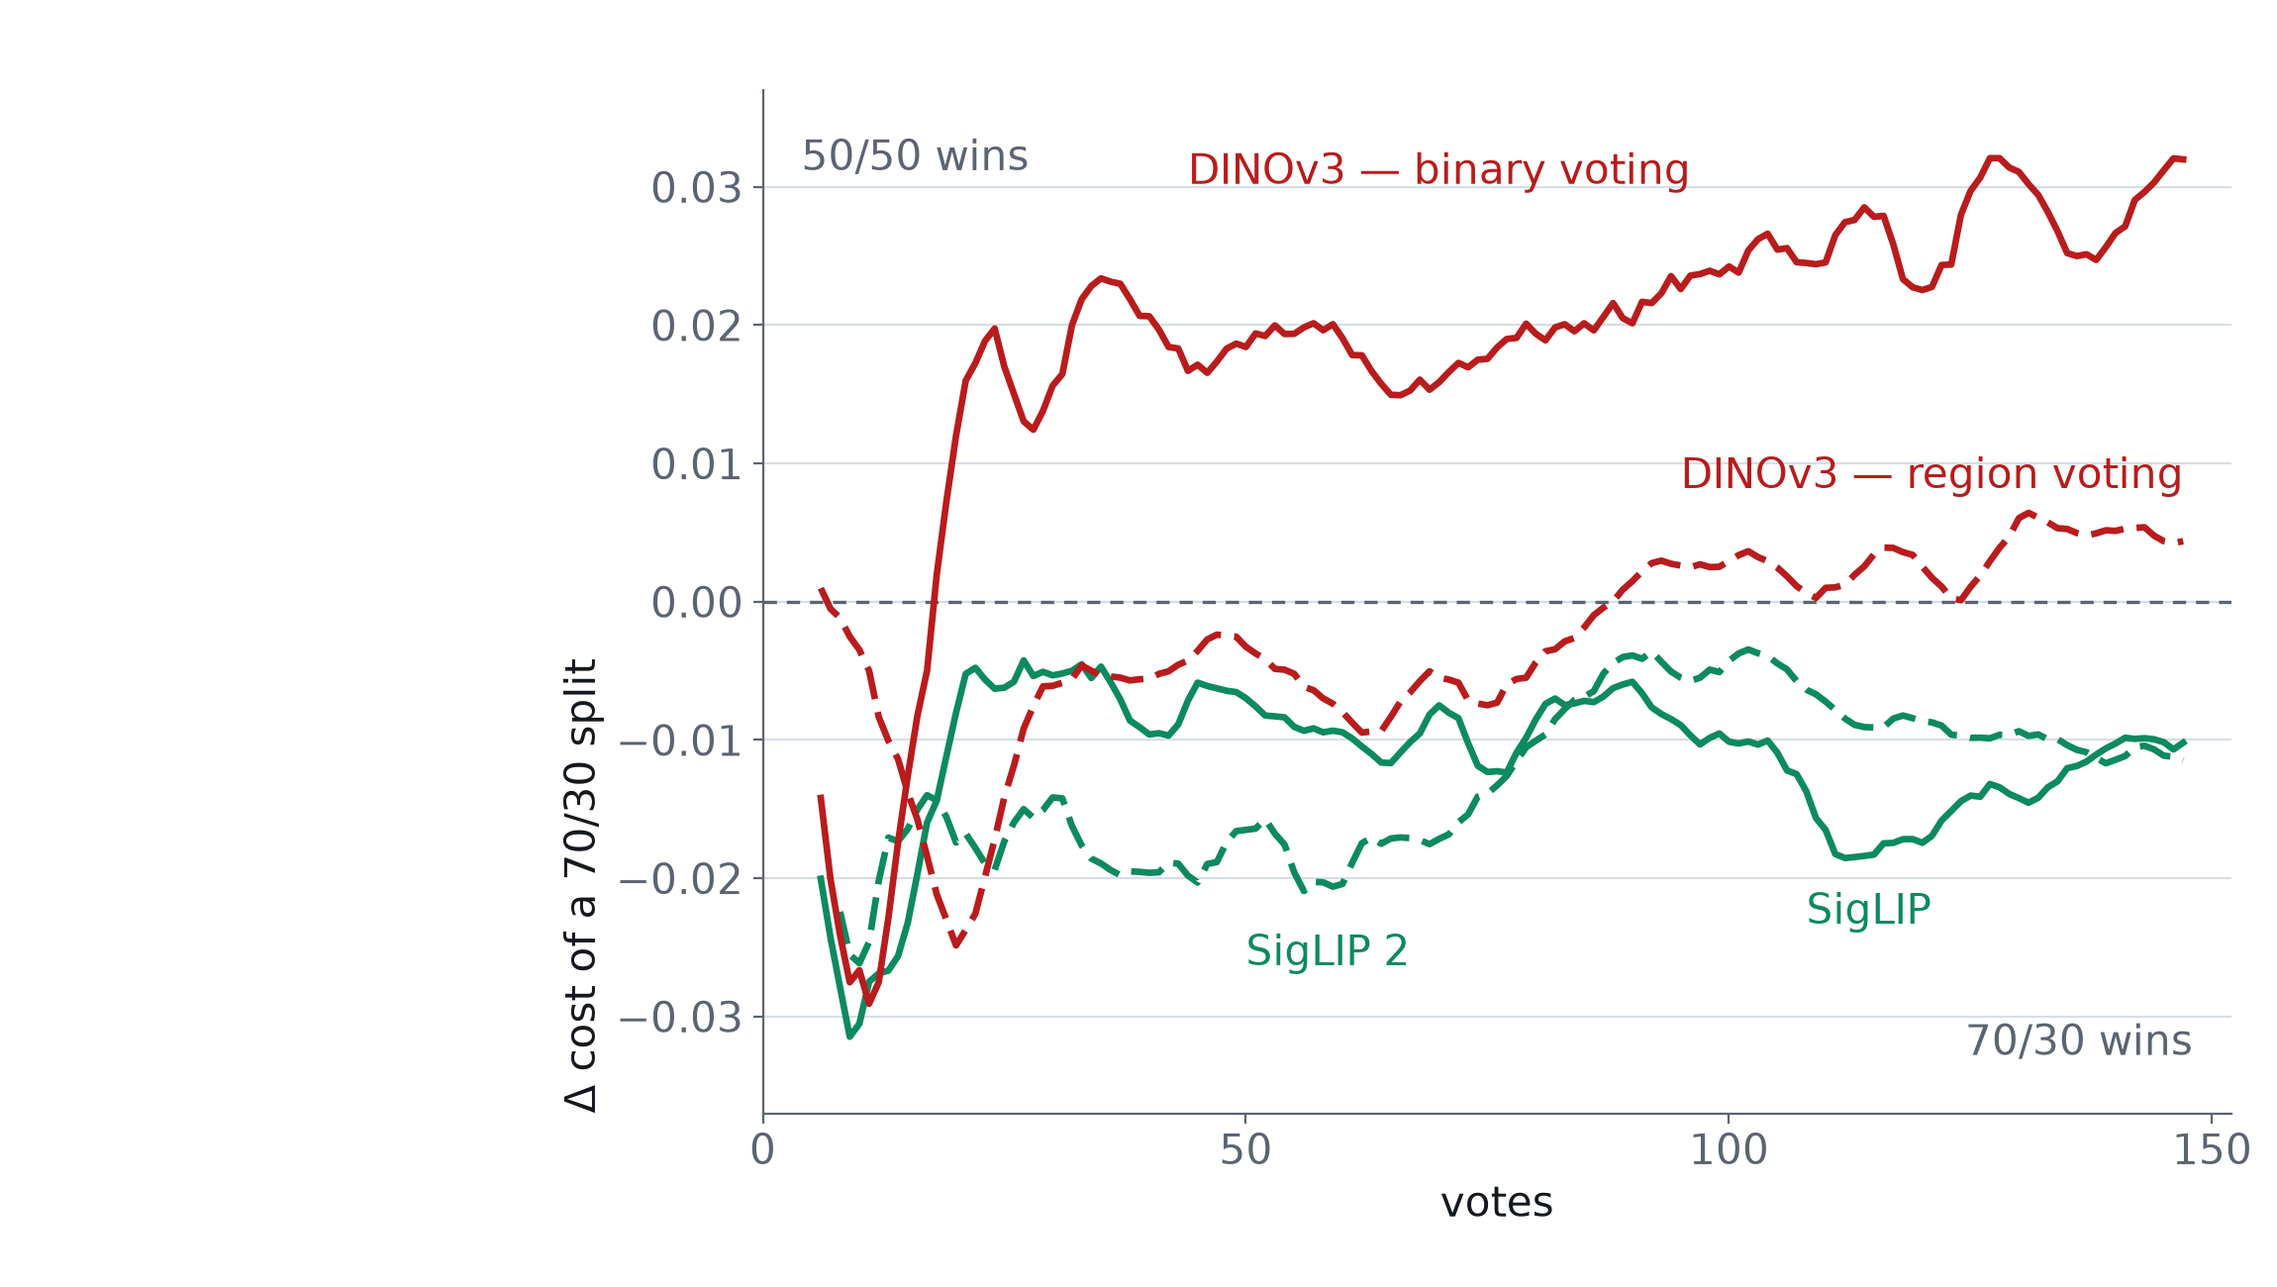
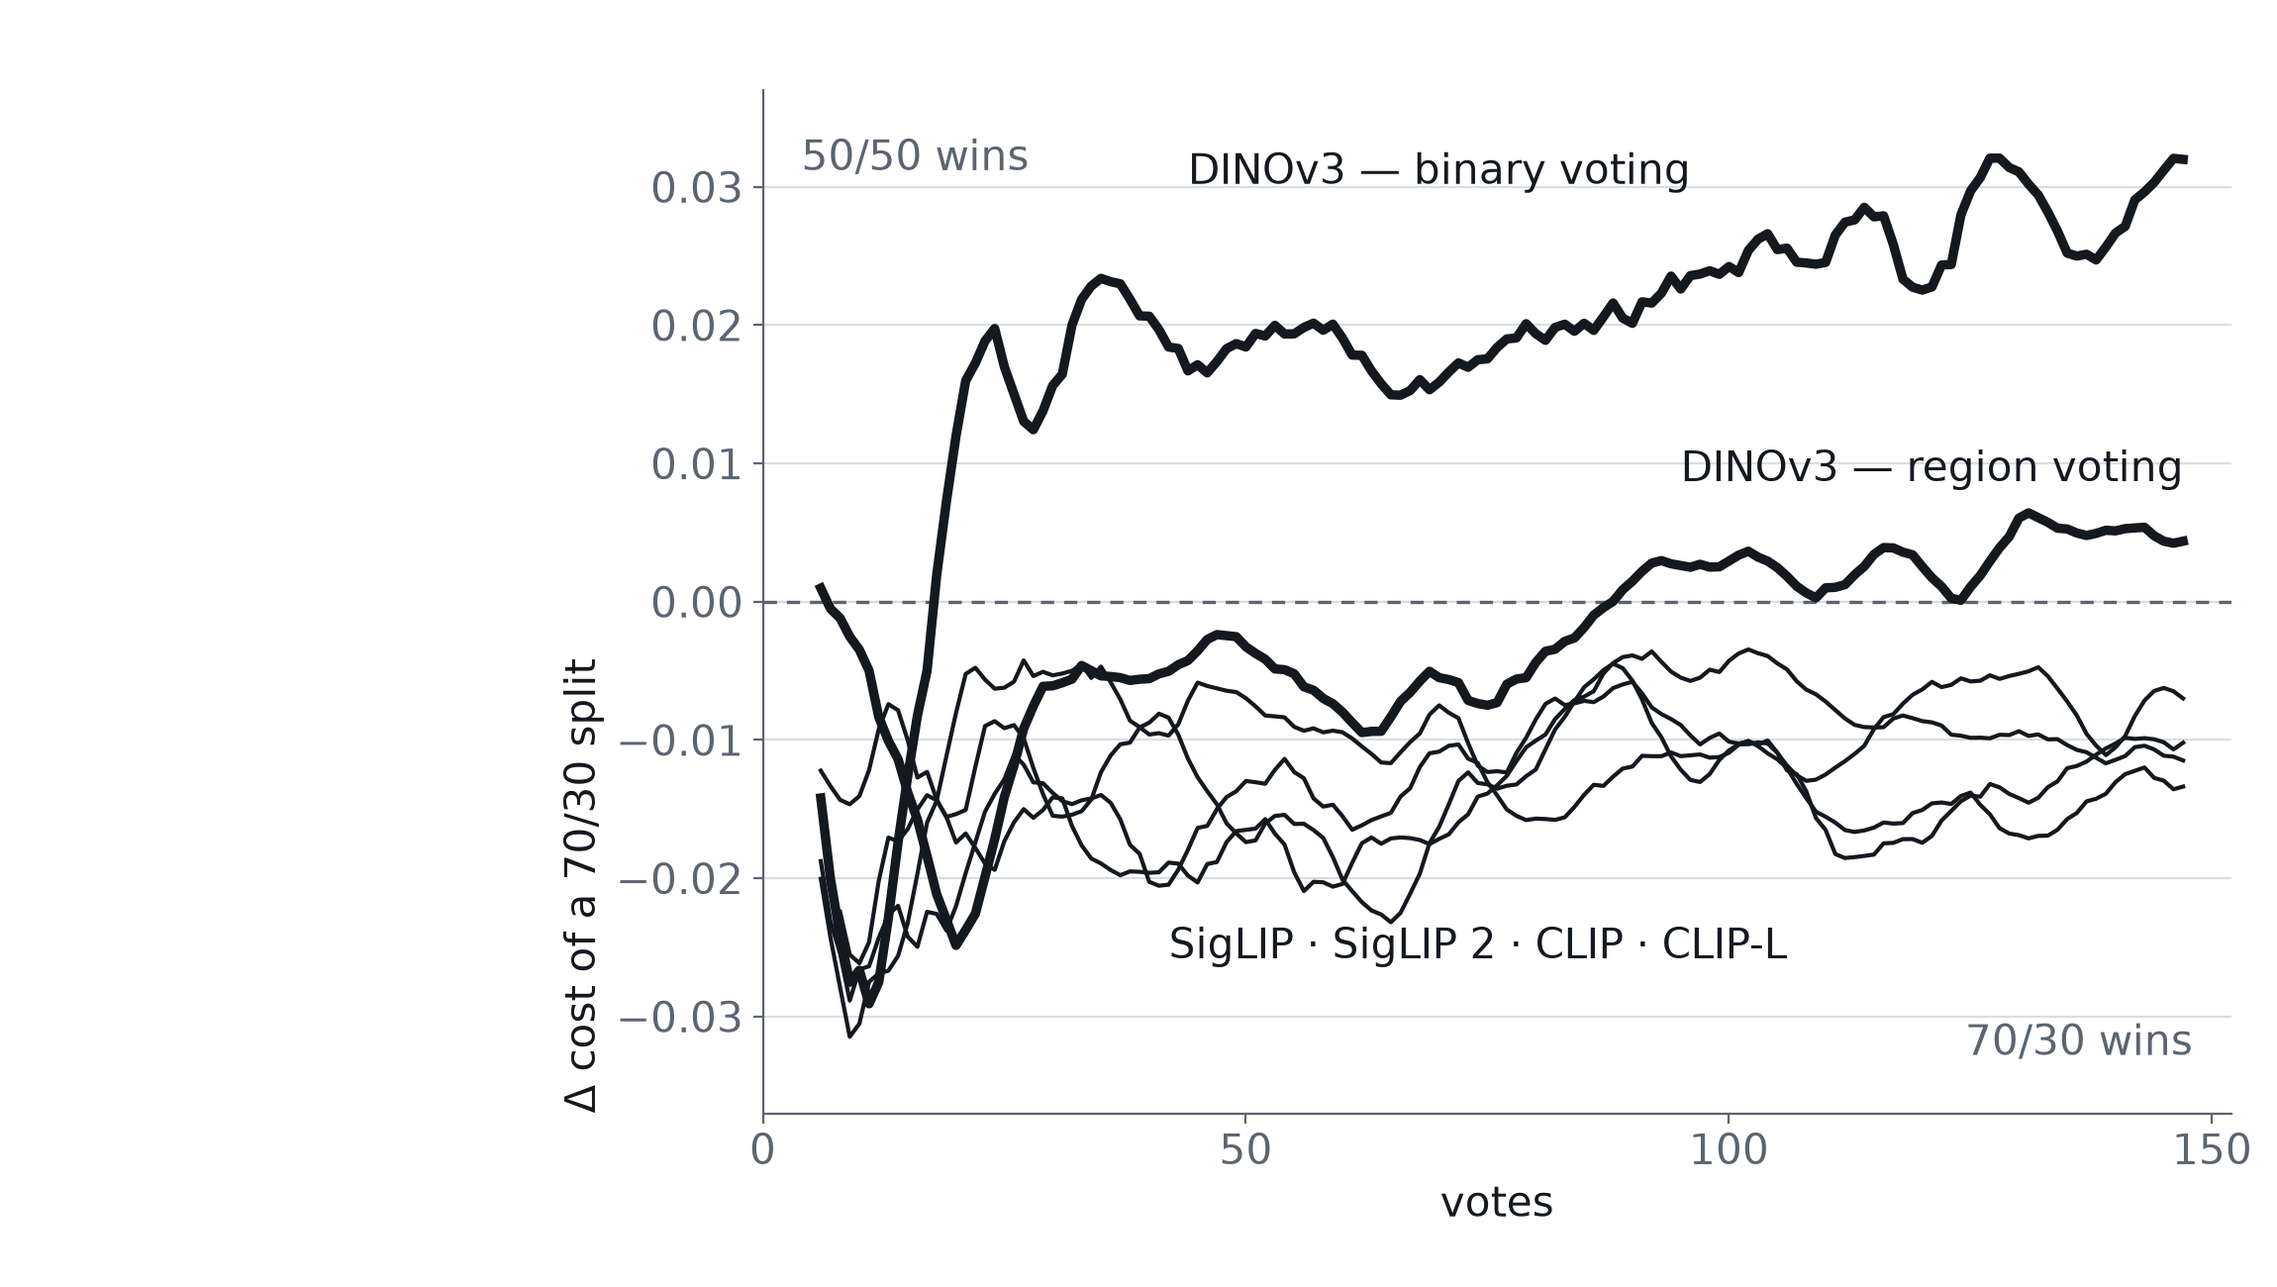
#3296: slide 13 becomes the 70/30 idea; the sweep moves to an appendix
Position 13 carried the study rather than the change. It now carries a
build-staged figure of the change itself — the same votes divided 70/30
instead of 50/50, and the four votes that cross the divider — and the
measured curves move to a slide after the closing outline, for questions.

That results chart is also redrawn: black at two weights instead of green for
the winning arms and red for the losing ones, on a slide whose evaluations
are about handing out Good and Bad labels; and it now carries CLIP and CLIP-L,
which are two thirds of the evidence that the effect is not a SigLIP one. Its
presenter notes fit on one speaker page again.

Claude-Session: https://claude.ai/code/session_01QJXy35CXHiXh1bmQF1AE3Q

diff --git a/slides/figs/src/make-calib-figs.py b/slides/figs/src/make-calib-figs.py
@@ -3586,24 +3586,169 @@ def blend_schedule_fig() -> None:
     save(fig, OUT, "calib-blend-schedule.png", column=FULL_BLEED, tight=False)
 
 
+#: The Train/Check idea figure: its canvas, the bar it draws twice, and the
+#: vote count it is concrete about. Twenty votes is an early-session number —
+#: the regime the split actually matters in — and it divides cleanly under both
+#: splits, so every count on the drawing is a whole vote rather than a rounded
+#: one.
+SPLIT_CANVAS = (19.8, 7.36)
+SPLIT_BAR_X0, SPLIT_BAR_W, SPLIT_BAR_H = 6.0, 13.3, 1.05
+SPLIT_VOTES = 20
+
+#: The two splits, as `(train share, row name, bar bottom)`. The incumbent
+#: first, because it is the one every earlier slide in this section drew.
+SPLIT_ROWS = ((0.5, "50 / 50", 5.05), (0.7, "70 / 30", 2.40))
+
+#: Where the arrow between the two bars runs, and where the conclusion starts.
+SPLIT_MOVE_Y = 4.35
+SPLIT_CONCLUSION_Y = 1.70
+
+#: How many stages the figure reveals in: the incumbent split; the proposal;
+#: the votes that moved between them; what the move is for.
+SPLIT_IDEA_STAGES = 4
+
+
+def _split_bar(ax: plt.Axes, fraction: float, name: str, y0: float) -> None:
+    """One split of the votes: the block, its divider, and what each side is for."""
+    x0, w, h = SPLIT_BAR_X0, SPLIT_BAR_W, SPLIT_BAR_H
+    _data_block(ax, x0, y0, w, h)
+    divider = x0 + fraction * w
+    ax.plot([divider] * 2, [y0, y0 + h], color=INK, linewidth=1.6, zorder=3)
+    # The row's name shares the label row above the bar with the two counts,
+    # rather than hanging off the left edge: the top bar's own left edge is as
+    # far left as the title notch lets anything reach, so a name outside it
+    # would sit in the corner the slide's headline has (`slides/STYLE.md`).
+    ax.text(x0, y0 + h + LABEL_GAP, name, ha="left", va="bottom", fontsize=18, color=INK, fontweight="bold")
+    for centre, job, votes in (
+        ((x0 + divider) / 2, "train", round(fraction * SPLIT_VOTES)),
+        ((divider + x0 + w) / 2, "check", SPLIT_VOTES - round(fraction * SPLIT_VOTES)),
+    ):
+        ax.add_patch(Ellipse((centre, y0 + h / 2), 1.55, 0.62, facecolor="white", edgecolor="none", zorder=4))
+        ax.text(centre, y0 + h / 2, job, ha="center", va="center", fontsize=16, color=INK, zorder=5)
+        ax.text(
+            centre,
+            y0 + h + LABEL_GAP,
+            f"{votes} votes",
+            ha="center",
+            va="bottom",
+            fontsize=15,
+            color=SOFT,
+        )
+
+
+def split_idea_fig() -> None:
+    """What the Train/Check split *is*, and the one change made to it (#3287).
+
+    The section's earlier figures all draw the same quiet choice — half the
+    votes train each fold's model, half are held out to read its threshold —
+    without ever naming it as a choice. This names it, and moves it: seventy
+    percent into Train, thirty into Check.
+
+    It is the idea, not the study. The measured curves live on the results
+    slide the deck now carries as an appendix; what belongs *here* is the
+    picture of four votes crossing the divider, which is the whole of what
+    changed (#3296).
+    """
+    final = _split_idea_stage(SPLIT_IDEA_STAGES)
+    box = tight_box(final)
+    for stage in range(1, SPLIT_IDEA_STAGES):
+        save(_split_idea_stage(stage), OUT, f"calib-split-idea.build{stage}.png", column=FULL_BLEED, box=box)
+    save(final, OUT, "calib-split-idea.png", column=FULL_BLEED, box=box)
+
+
+def _split_idea_stage(stage: int) -> plt.Figure:
+    """Draw the first *stage* steps (1-based, cumulative) of the split figure."""
+    fig, ax = plt.subplots(figsize=tuple(c * FLOW_UNIT_PT / 72 for c in SPLIT_CANVAS))
+    fig.subplots_adjust(left=0, right=1, bottom=0, top=1)
+    ax.set_xlim(0, SPLIT_CANVAS[0])
+    ax.set_ylim(0, SPLIT_CANVAS[1])
+    ax.set_axis_off()
+
+    x0, w, h = SPLIT_BAR_X0, SPLIT_BAR_W, SPLIT_BAR_H
+    (was_f, was_name, was_y), (now_f, now_name, now_y) = SPLIT_ROWS
+
+    # ── stage 1: the split every fold in this section has been drawing ────────
+    _split_bar(ax, was_f, was_name, was_y)
+
+    # ── stage 2: the same votes, divided somewhere else ───────────────────────
+    if stage >= 2:
+        _split_bar(ax, now_f, now_name, now_y)
+
+    # ── stage 3: the votes that crossed, as a path rather than as a jump ──────
+    # Both bars are on screen at once and neither ever moves — a build adds
+    # ink, it does not animate (`slides/STYLE.md`) — so what says "the divider
+    # moved" has to be drawn: two soft drops and one arrow between them, along
+    # the gap the two rows leave for it.
+    if stage >= 3:
+        was_x, now_x = x0 + was_f * w, x0 + now_f * w
+        move_y = SPLIT_MOVE_Y
+        ax.plot([was_x] * 2, [was_y, move_y], color=RULE, linewidth=1.4, zorder=1)
+        ax.plot([now_x] * 2, [move_y, now_y + h], color=RULE, linewidth=1.4, zorder=1)
+        _arrow(ax, (was_x, move_y), (now_x, move_y))
+        # Named past the arrowhead rather than over the shaft: the shaft has
+        # one of the two drops running into it, and a label centred on it
+        # covers the very line that says where the divider came from.
+        ax.text(
+            now_x + OBJECT_GAP,
+            move_y,
+            f"{round((now_f - was_f) * SPLIT_VOTES)} more votes",
+            ha="left",
+            va="center",
+            fontsize=16,
+            color=INK,
+        )
+
+    # ── stage 4: why that is the direction to move it ─────────────────────────
+    if stage >= 4:
+        centre = x0 + w / 2
+        ax.text(
+            centre,
+            SPLIT_CONCLUSION_Y,
+            "the fold model is what runs short when votes are scarce",
+            ha="center",
+            va="top",
+            fontsize=16,
+            color=INK,
+        )
+        ax.text(
+            centre,
+            SPLIT_CONCLUSION_Y - CAP_16 - LABEL_GAP,
+            "a threshold is only a quantile, and six scores still place one",
+            ha="center",
+            va="top",
+            fontsize=15,
+            color=SOFT,
+        )
+
+    return fig
+
+
 def split_fraction_fig() -> None:
-    """The Train/Calibrate split, paired against the 50/50 incumbent.
+    """The Train/Check split, paired against the 50/50 incumbent.
 
     Redraws the committed curves from
     `docs/experiments/calibration-fraction-3287/figures/cost_vs_clicks.csv`
-    (plus the `siglip2l/` follow-up) at slide scale, as the difference the
-    70/30 split makes at each click count. One line per geometry; below zero
-    means training on more of the votes beat holding more of them out. The
-    numbers are untouched apart from the pairing arithmetic (same cells run
-    under both arms, so the difference of means is the mean paired difference)
-    and a centred 7-vote rolling mean that the presenter note declares.
+    (plus the `siglip2l/`, `clip/` and `clip_l/` follow-ups) at slide scale, as
+    the difference the 70/30 split makes at each click count. One line per
+    geometry; below zero means training on more of the votes beat holding more
+    of them out. The numbers are untouched apart from the pairing arithmetic
+    (same cells run under both arms, so the difference of means is the mean
+    paired difference) and a centred 7-vote rolling mean that the presenter
+    note declares.
+
+    **Black at two weights, not green against red.** The old drawing coloured
+    the winning arms green and the losing ones red, on a slide whose curves are
+    about evaluations that hand out Good and Bad labels — the deck's two other
+    uses of exactly those hues (#3296). The line weight carries the only
+    grouping the chart actually has: four single-vector models that agree, and
+    the patch model that does not.
     """
     import csv
 
     report = _REPO_ROOT / "docs" / "experiments" / "calibration-fraction-3287"
     series: dict[tuple[str, float], dict[int, tuple[float, float]]] = {}
-    for path in (report / "figures" / "cost_vs_clicks.csv", report / "siglip2l" / "figures" / "cost_vs_clicks.csv"):
-        with path.open() as fh:
+    for run in ("figures", "siglip2l/figures", "clip/figures", "clip_l/figures"):
+        with (report / run / "cost_vs_clicks.csv").open() as fh:
             for row in csv.DictReader(fh):
                 if not row["mean"]:
                     continue
@@ -3624,18 +3769,29 @@ def split_fraction_fig() -> None:
 
     fig, ax = plt.subplots(figsize=(11.5, 6.5))
     ax.axhline(0.0, color=SOFT, linewidth=1.2, linestyle=(0, (4, 3)), zorder=1)
-    for geometry, color, style, label, xy, va in (
-        ("siglip-whole_image", GREEN, "solid", "SigLIP", (108, -0.021), "top"),
-        ("siglip2_l-whole_image", GREEN, (0, (5, 2)), "SigLIP 2", (50, -0.024), "top"),
-        ("dinov3_patch-whole_image", RED, "solid", "DINOv3 — binary voting", (44, 0.0295), "bottom"),
-        ("dinov3_patch-max_patch", RED, (0, (5, 2)), "DINOv3 — region voting", (95, 0.0075), "bottom"),
+    # The four single-vector arms are drawn as one bundle and named once. They
+    # sit inside six thousandths of each other for most of the sweep, so four
+    # labels on four curves would be four labels on one curve — and the claim
+    # the bundle makes is a claim about all four at once.
+    for geometry in ("siglip-whole_image", "siglip2_l-whole_image", "clip-whole_image", "clip_l-whole_image"):
+        ax.plot(*delta(geometry), color=INK, linewidth=1.5, zorder=3)
+    for geometry, label, xy, va in (
+        ("dinov3_patch-whole_image", "DINOv3 — binary voting", (44, 0.0295), "bottom"),
+        ("dinov3_patch-max_patch", "DINOv3 — region voting", (95, 0.0080), "bottom"),
     ):
-        ts, values = delta(geometry)
-        ax.plot(ts, values, color=color, linestyle=style, linewidth=2.4, zorder=3)
-        ax.annotate(label, xy=xy, ha="left", va=va, fontsize=15, color=color)
+        ax.plot(*delta(geometry), color=INK, linewidth=3.4, zorder=3)
+        ax.annotate(label, xy=xy, ha="left", va=va, fontsize=15, color=INK)
+    ax.annotate(
+        "SigLIP · SigLIP 2 · CLIP · CLIP-L",
+        xy=(74, -0.0235),
+        ha="center",
+        va="top",
+        fontsize=15,
+        color=INK,
+    )
     # Region labels for the two half-planes, parked in the corners the curves
     # leave empty: top-left above the rising DINOv3 line, bottom-right below
-    # the settled SigLIP pair.
+    # the settled single-vector bundle.
     ax.annotate("50/50 wins", xy=(4, 0.0335), ha="left", va="top", fontsize=15, color=SOFT)
     ax.annotate("70/30 wins", xy=(148, -0.0335), ha="right", va="bottom", fontsize=15, color=SOFT)
     ax.set_xlim(0, 152)

diff --git a/slides/fragments/split-fraction.md b/slides/fragments/split-fraction.md
@@ -1,40 +1,29 @@
 <!-- _class: full -->
 
-![bg fit](figs/calib-split-fraction.png)
+![bg fit](figs/calib-split-idea.png)
 
 ## Train More,<br>Check Less
 
-<!-- Every fold in the calibration machinery so far made the same quiet
-     choice: half the votes train the fold model, half are held out to read
-     its threshold from. Fifty-fifty was never measured; it was just the
-     obvious split. This is what happened when it finally was measured — four
-     detector geometries, five splits, every cell run under each split so the
-     comparison is paired. -->
+<!-- build: figs/calib-split-idea.build1.png -->
 
-<!-- The plot is the difference a 70/30 split makes — seventy percent of the
-     votes into training, thirty into checking — against the incumbent
-     fifty-fifty, at every vote count. Below the dashed line, training on
-     more of the votes won. -->
+<!-- build: figs/calib-split-idea.build2.png -->
 
-<!-- The green pair is the result: on both single-vector models, more Train
-     wins at *every* vote count, about a point of cost, and the effect is
-     biggest when votes are scarce — exactly where a fold model is starved.
-     There is no regime where it loses. -->
+<!-- build: figs/calib-split-idea.build3.png -->
 
-<!-- The red pair is the catch, and it is the interesting part. DINOv3 wants
-     fifty-fifty in *both* its voting modes. Same row-wise calibrator as
-     SigLIP when it votes binary, same-shaped label set — opposite answer. So
-     the thing that decides the split is not the voting mode and not the
-     calibrator: it is the space the detector learns in. A patch model's Bad
-     vote floods a couple of hundred patch rows into training, so its model is
-     not starved at half the votes — its *threshold* is the scarce resource. -->
+<!-- **a** — Every fold in this section has made the same quiet choice, and
+     none of the last five slides said so out loud: half the votes train the
+     fold model, half are held out to read its threshold from. Fifty-fifty was
+     never measured. It was the obvious split, and it stayed. -->
 
-<!-- So the shipped default is now per-model: 70/30 where the detector learns
-     in a single-vector space, 50/50 on a patch grid — and a user who sets the
-     split by hand still overrides both. -->
+<!-- **b** — So we measured it, and it moved. Seventy percent into Train,
+     thirty into Check — the same votes, divided somewhere else. -->
 
-<!-- Curves are a centred 7-vote rolling mean of the paired per-vote
-     differences. If anyone asks for numbers: −0.012 to −0.013 ± 0.003 on the
-     two single-vector models, +0.015 ± 0.005 against 70/30 on
-     DINOv3-binary; 480 + 240 cells, 12 classes at matched prevalence, 4
-     seeds. Evidence: docs/experiments/calibration-fraction-3287/. -->
+<!-- **c** — At twenty votes that is four votes crossing the line: fourteen
+     train the model, six place the cut. -->
+
+<!-- **d** — And the reason it goes that way rather than the other. Early on
+     the fold model is the starved thing — it is fitting a whole decision
+     boundary out of ten examples — while the threshold it needs is one
+     quantile of one list, and a quantile does not need many scores to sit in
+     roughly the right place. So the scarce votes are worth more in Train. The
+     measured curves are in the appendix; ask and I will bring them up. -->

diff --git a/slides/fragments/split-fraction-result.md b/slides/fragments/split-fraction-result.md
@@ -1,0 +1,28 @@
+<!-- _class: full -->
+
+![bg fit](figs/calib-split-fraction.png)
+
+## What the<br>Sweep Said
+
+<!-- Held back for questions: the study behind *Train More, Check Less*, not a
+     step in the argument. Four geometries, five splits, every cell run under
+     each split, so the comparison is paired. -->
+
+<!-- The plot is the difference a 70/30 split makes against the incumbent
+     fifty-fifty, at every vote count. Below the dashed line, training on more
+     of the votes won. -->
+
+<!-- The four thin lines are the single-vector models — SigLIP, SigLIP 2, CLIP,
+     CLIP-L. Two families, two capacities each, and all four want more Train at
+     *every* vote count, biggest where votes are scarce. Two checkpoints per
+     family is what rules out "it is a SigLIP thing". -->
+
+<!-- The bold pair is the catch: DINOv3 wants fifty-fifty in *both* voting
+     modes. Same calibrator as SigLIP when it votes binary, opposite answer —
+     so what decides the split is the space the detector learns in. A patch
+     model's Bad vote floods hundreds of rows into training, so its *threshold*
+     is the scarce resource, not its model. -->
+
+<!-- Numbers if asked: −0.011 to −0.016 ± 0.003 on the four, +0.015 ± 0.005
+     against 70/30 on DINOv3-binary; curves are a centred 7-vote rolling mean.
+     Evidence: `docs/experiments/calibration-fraction-3287/`. -->
